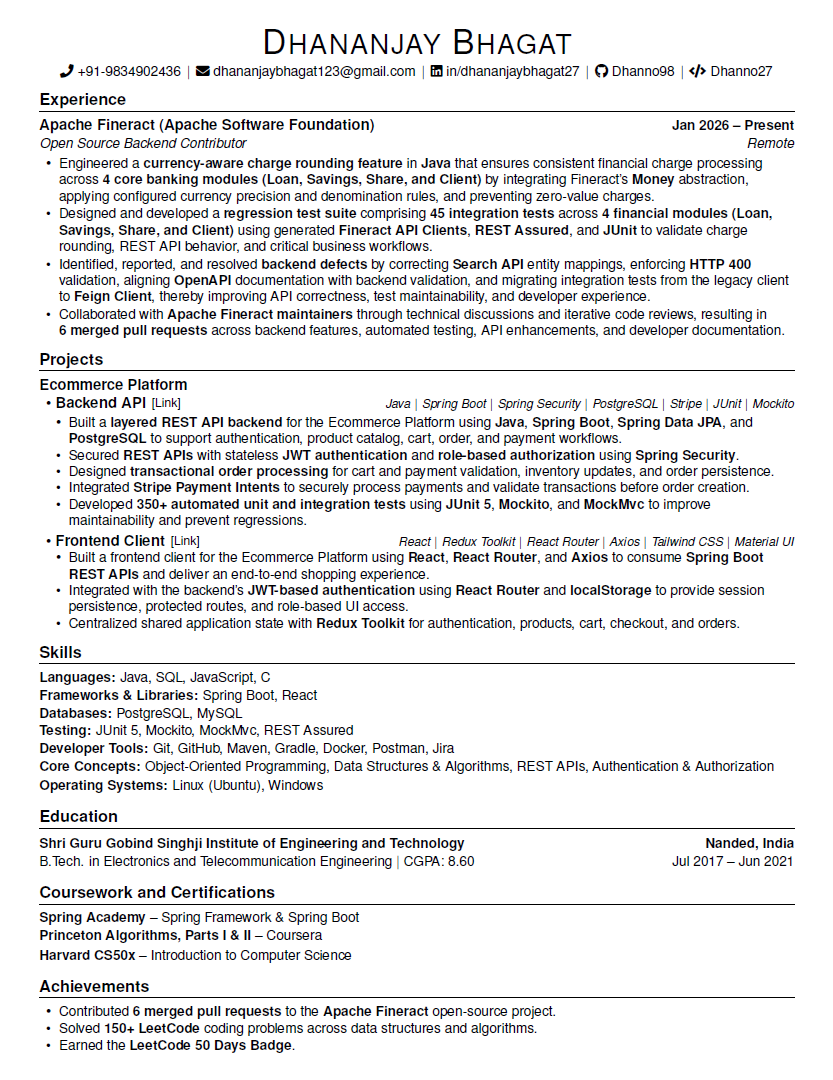
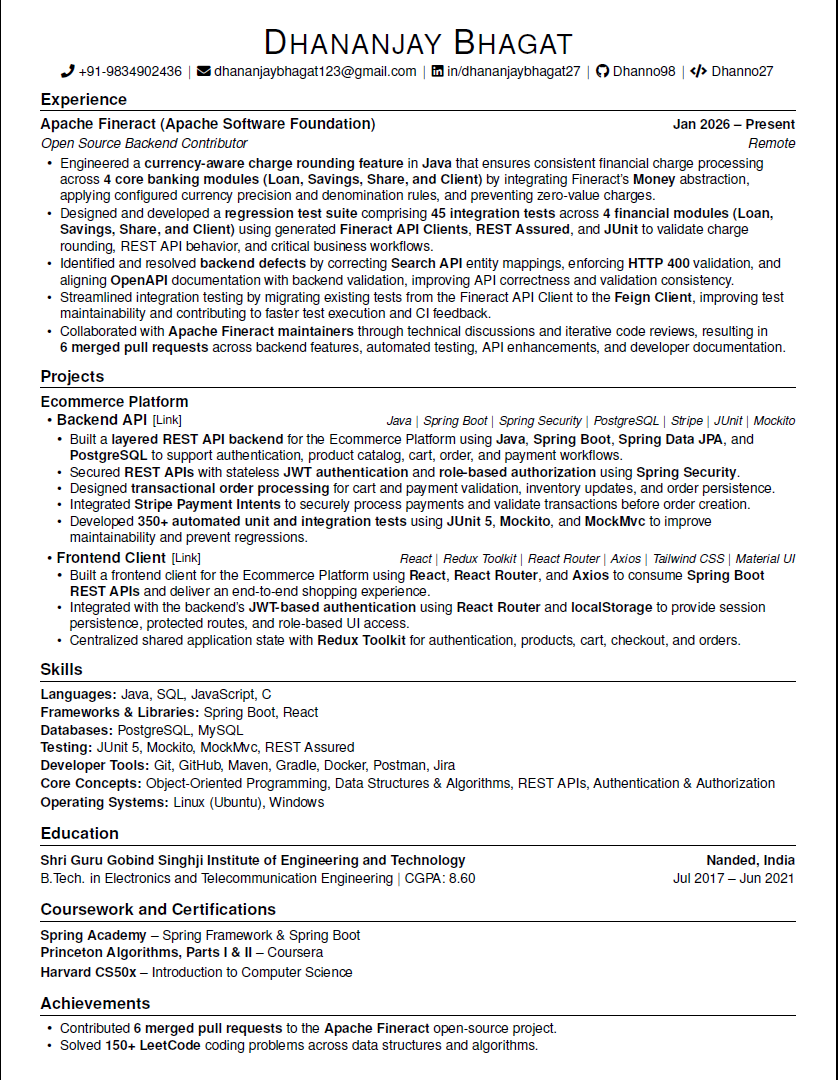
update resume

Changed region(s): [[0.0312, 0.0306, 0.9676, 0.9778], [0.9988, 0.0, 1.0, 1.0], [0.8115, 0.7639, 0.9676, 0.825]]

diff --git a/source/resume.tex b/source/resume.tex
@@ -148,7 +148,10 @@ Engineered a \textbf{currency-aware charge rounding feature} in \textbf{Java} th
 Designed and developed a \textbf{regression test suite} comprising \textbf{45 integration tests} across \textbf{4 financial modules (Loan, Savings, Share, and Client)} using generated \textbf{Fineract API Clients}, \textbf{REST Assured}, and \textbf{JUnit} to validate charge rounding, REST API behavior, and critical business workflows.
 }
 \resumeItem{
-Identified, reported, and resolved \textbf{backend defects} by correcting \textbf{Search API} entity mappings, enforcing \textbf{HTTP 400} validation, aligning \textbf{OpenAPI} documentation with backend validation, and migrating integration tests from the legacy client to \textbf{Feign Client}, thereby improving API correctness, test maintainability, and developer experience.
+Identified and resolved \textbf{backend defects} by correcting \textbf{Search API} entity mappings, enforcing \textbf{HTTP 400} validation, and aligning \textbf{OpenAPI} documentation with backend validation, improving API correctness and validation consistency.
+}
+\resumeItem{
+Streamlined integration testing by migrating existing tests from the Fineract API Client to the \textbf{Feign Client}, improving test maintainability and contributing to faster test execution and CI feedback.
 }
 \resumeItem{
 Collaborated with \textbf{Apache Fineract maintainers} through technical discussions and iterative code reviews, resulting in \textbf{6~merged pull requests} across backend features, automated testing, API enhancements, and developer documentation.
@@ -226,6 +229,7 @@ B.Tech. in Electronics and Telecommunication Engineering \textbar\ CGPA: 8.60 &
 Jul 2017 -- Jun 2021 \\
 \end{tabular*}
 \normalsize
+% \vspace{-10pt}
 
 
 %-----------COURSEWORK AND CERTIFICATIONS-----------
@@ -235,6 +239,7 @@ Jul 2017 -- Jun 2021 \\
 \textbf{Princeton Algorithms, Parts I \& II} -- Coursera \\[1pt]
 \textbf{Harvard CS50x} -- Introduction to Computer Science
 \normalsize
+% \vspace{-12pt}
 
 
 %-----------ACHIEVEMENTS-----------
@@ -243,7 +248,7 @@ Jul 2017 -- Jun 2021 \\
 \resumeAchievementListStart
 \resumeItem{Contributed \textbf{6 merged pull requests} to the \textbf{Apache Fineract} open-source project.}
 \resumeItem{Solved \textbf{150+ LeetCode} coding problems across data structures and algorithms.}
-\resumeItem{Earned the \textbf{LeetCode 50 Days Badge}.}
+% \resumeItem{Earned the \textbf{LeetCode 50 Days Badge}.}
 \resumeItemListEnd
 
 \end{document}

diff --git a/README.md b/README.md
@@ -2,7 +2,7 @@
 
 # Dhananjay Bhagat
 
-### Java Backend Developer | Spring Boot | REST APIs | PostgreSQL | Apache Fineract Contributor
+### Java Backend Developer | Apache Fineract Contributor | Spring Boot | REST APIs | PostgreSQL |
 
 [![LinkedIn](https://img.shields.io/badge/LinkedIn-Profile-0A66C2?style=for-the-badge&logo=linkedin&logoColor=white)](https://www.linkedin.com/in/dhananjaybhagat27/)
 [![GitHub](https://img.shields.io/badge/GitHub-Dhanno98-181717?style=for-the-badge&logo=github&logoColor=white)](https://github.com/Dhanno98)
